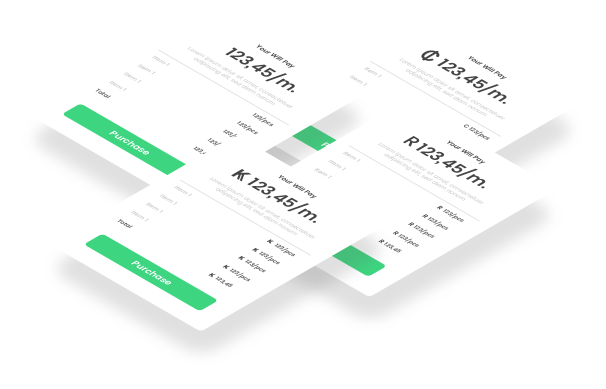
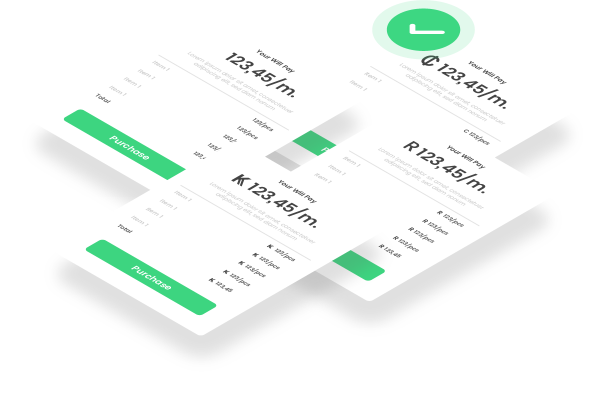
fixed images

diff --git a/src/components/UseCases.vue b/src/components/UseCases.vue
@@ -36,7 +36,8 @@
     <div
       class="mx-auto grid items-center gap-small duration-1000 md:w-4/5 md:grid-cols-2 md:gap-x-medium"
     >
-      <img :src="activeUsecase.image" alt="" class="block w-full" />
+      <img :src="activeUsecase.image_desktop" alt="" class="hidden md:block w-full" />
+      <img :src="activeUsecase.image_mobile" alt="" class="block md:hidden w-full" />
       <div class="flex flex-col gap-medium-lite">
         <div
           v-for="(usecase, index) in activeUsecase.usecases"
@@ -60,7 +61,8 @@ const currentIndex = ref(0);
 const buttons = ref(['For Individuals', 'For Businesses']);
 const UseCases = ref([
   {
-    image: 'individual-use-case.png',
+    image_mobile: 'mobile-individual-usecase.png',
+    image_desktop: 'individual-use-case.png',
     usecases: [
       {
         title: 'Unlock the Value of Your Cryptocurrencies',
@@ -75,7 +77,8 @@ const UseCases = ref([
     ],
   },
   {
-    image: 'company-use-case.png',
+    image_mobile: 'mobile-company-usecase.png',
+    image_desktop: 'company-use-case.png',
     usecases: [
       {
         title: 'Seamless Cash Flow Management',

diff --git a/src/components/AboutPage.vue b/src/components/AboutPage.vue
@@ -9,7 +9,7 @@
         alt=""
         class="absolute right-10 top-10 block w-20 md:right-40"
       /> -->
-      <img src="../assets/about-icon.svg" alt="" class="block w-full" />
+      <img src="../assets/about-icon.png" alt="" class="block w-full" />
     </div>
     <div class="text-dark" id="about">
       <h2 class="mt-small text-[3.6rem] font-bold md:mt-0">About Divest</h2>
